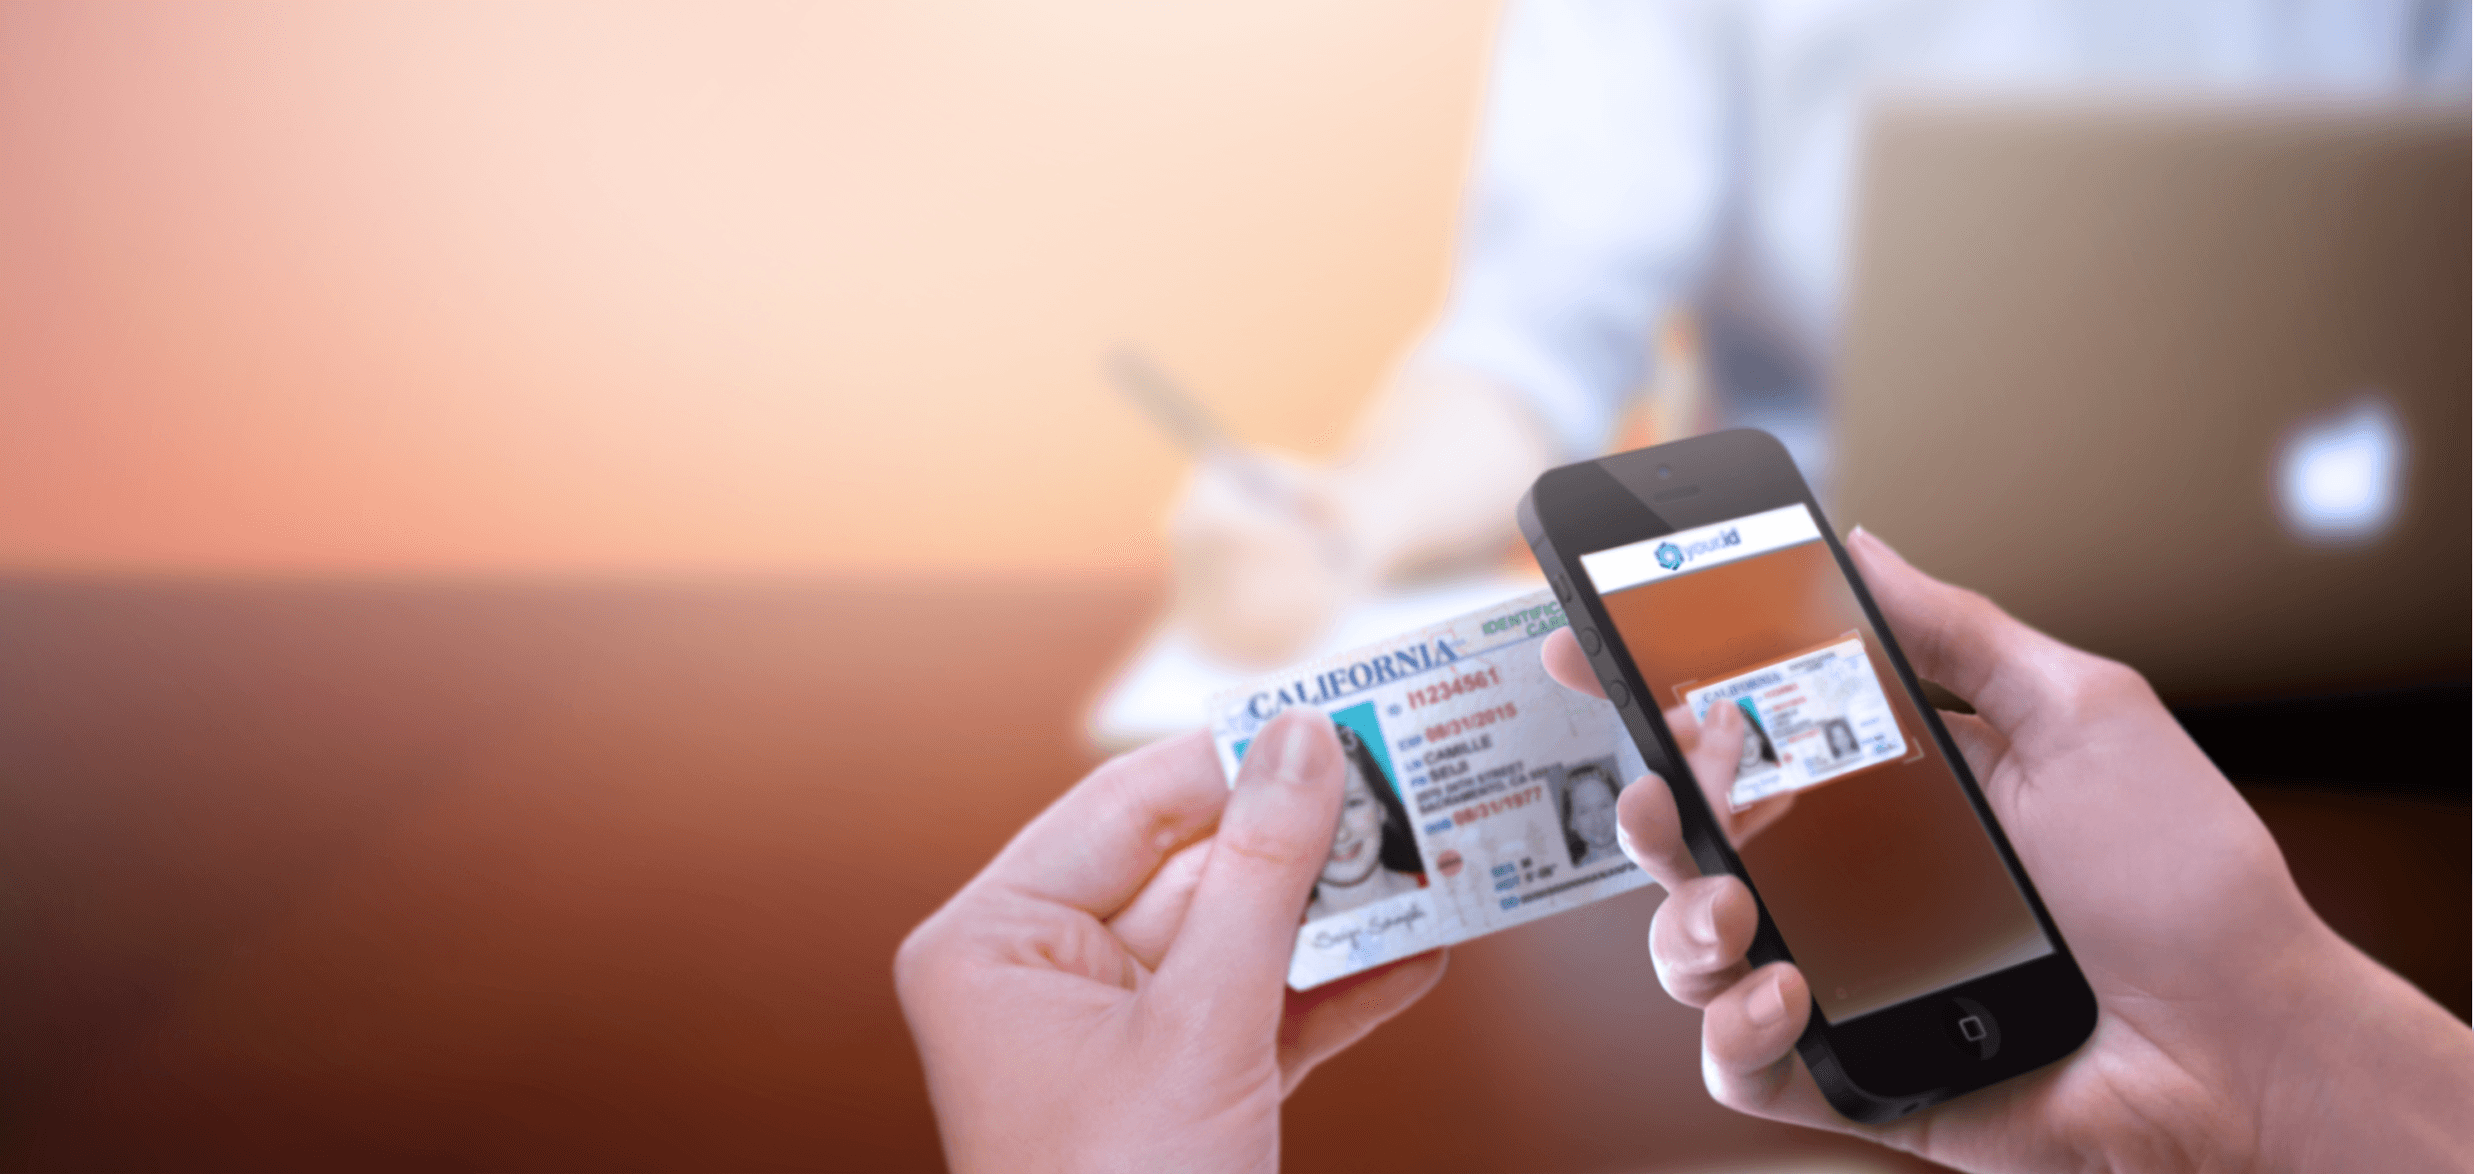
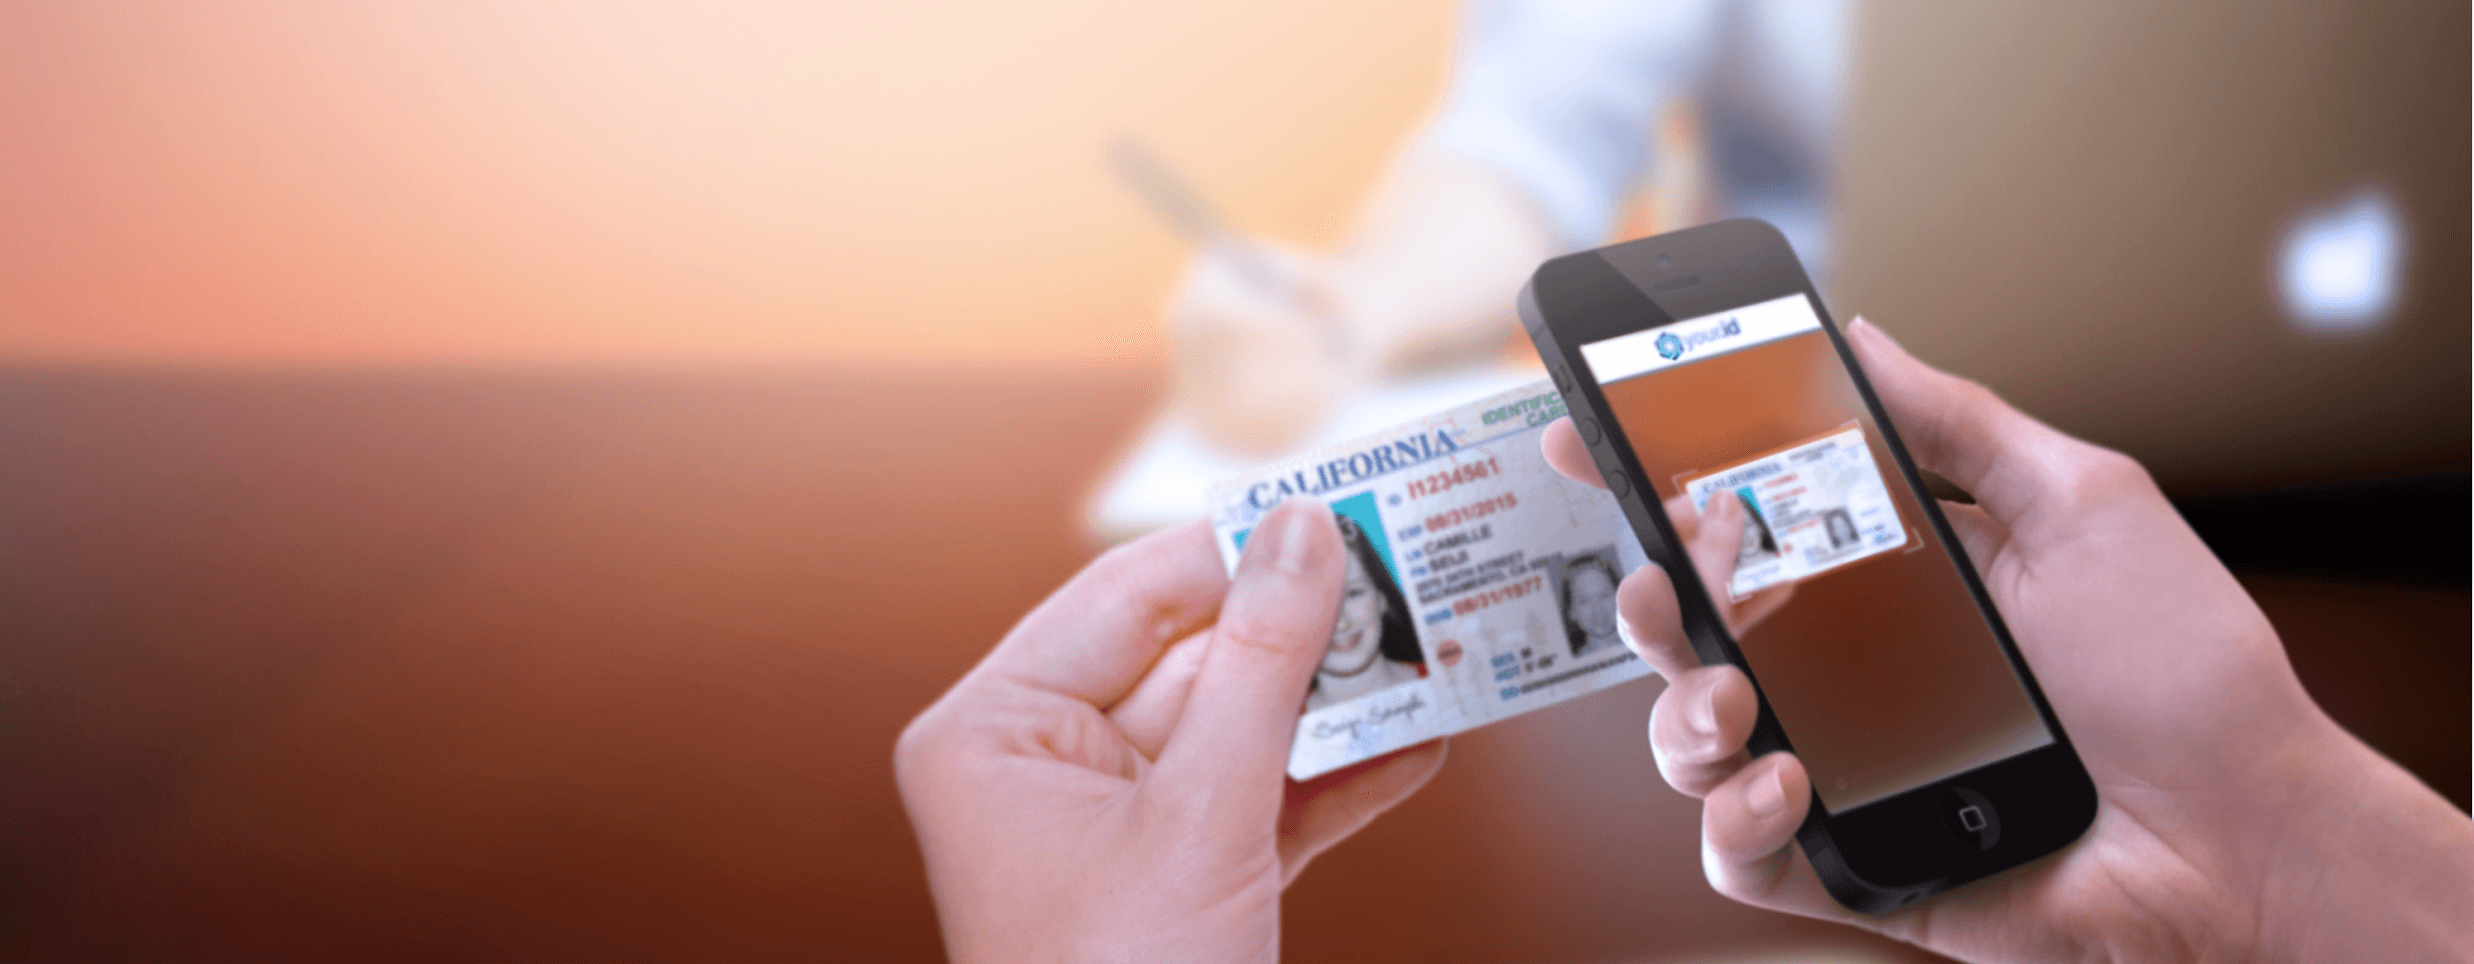
Modified height of the header

diff --git a/css/main-I.css b/css/main-I.css
@@ -206,7 +206,7 @@ input[type="submit"].dark-gray-bg:hover {
 }
 
 .header {
-  height: 450px;
+  height: 436px;
   background: url('../images/image-3.png') no-repeat;
   background-size: cover;
 }
@@ -234,8 +234,8 @@ input[type="submit"].dark-gray-bg:hover {
 
 .banner {
   position: relative;
-  padding-top: 60px;
-  padding-bottom: 60px;
+  padding-top: 50px;
+  padding-bottom: 50px;
 }
 
 .banner-II {
